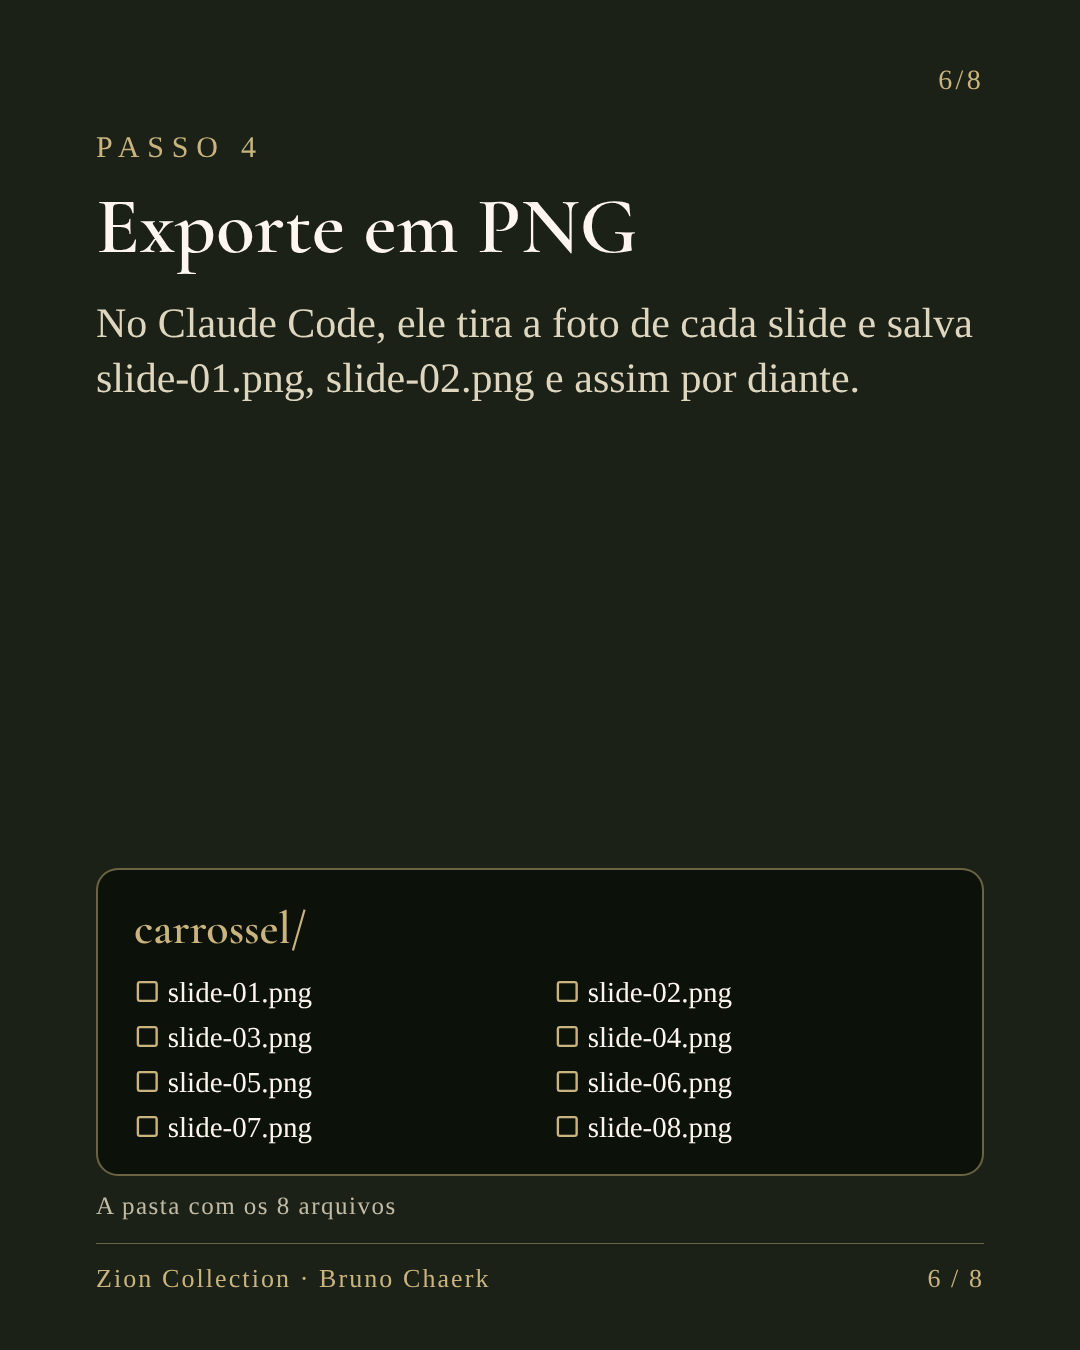
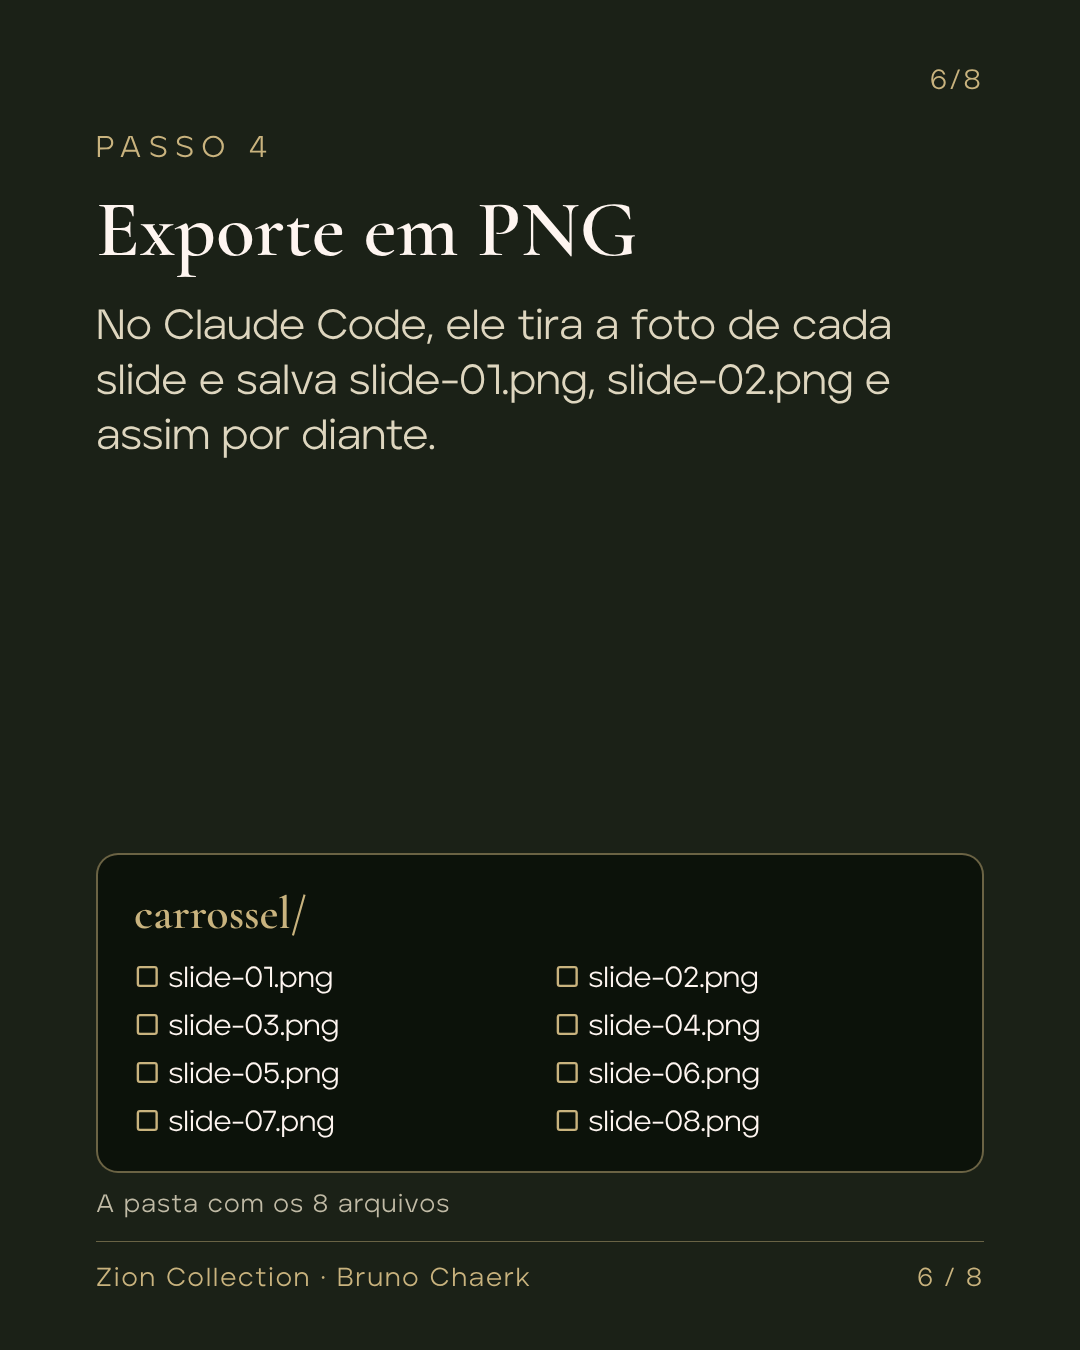
Carrossel 001: PNGs exportados em png/ e correção do carregamento da fonte Aventa
Claude-Session: https://claude.ai/code/session_01BzUk5cJiMhLKC6ATp7dYim

diff --git a/producao/instagram/carrosseis/001-passo-a-passo-carrossel-com-claude/carrossel.html b/producao/instagram/carrosseis/001-passo-a-passo-carrossel-com-claude/carrossel.html
@@ -1,7 +1,7 @@
 <!doctype html><html lang="pt-BR"><head><meta charset="utf-8"><title>Carrossel Zion</title>
 <style>
 @font-face{font-family:C;src:url(../../../../docs/assets/fonts/cormorant.woff2);font-weight:300 700}
-@font-face{font-family:A;src:url(__FONTS__/aventa.woff2);font-weight:300 700}
+@font-face{font-family:A;src:url(../../../../docs/assets/fonts/aventa.woff2);font-weight:300 700}
 :root{--bg:#040605;--musgo:#1B2117;--creme:#FEF5F0;--areia:#DED6BF;--dest:#C9B37E;--m:96px}
 *{margin:0;box-sizing:border-box}
 body{background:#222;display:flex;flex-direction:column;align-items:center;gap:24px;padding:24px}
@@ -66,6 +66,7 @@ td:first-child{font-weight:700;color:var(--dest);width:260px}
 .marca-ext{font-family:C;font-size:64px;letter-spacing:.14em;color:var(--creme);margin-bottom:28px}
 .rod{position:absolute;left:var(--m);right:var(--m);bottom:118px;font-size:24px;color:var(--areia);opacity:.85}
 .seta-l:before{content:"→  ";color:var(--dest)}
+.solo .visual{top:230px;bottom:auto}.com-rod .visual{bottom:190px}.com-rod.solo .visual{bottom:auto}.rod{bottom:112px}
 </style></head><body>
 <script id="dados" type="application/json">{"marca":"Zion Collection · Bruno Chaerk","tema":"passo a passo: carrossel pronto com o Claude","slides":[{"papel":"capa","kicker":"Passo a passo","titulo":"Carrossel pronto em 4 passos","texto":"Com o Claude, sem abrir editor de design."},{"papel":"texto","kicker":"O jeito antigo","titulo":"Uma tarde inteira ajustando fonte","texto":"Escrever num lugar, montar slide por slide em outro. No jeito novo, o Claude escreve e monta, e você só decide."},{"papel":"passo","kicker":"Passo 1","titulo":"Escolha o tipo pelo objetivo","texto":"Alcance pede opinião forte ou notícia, salvamento pede lista ou passo a passo, e venda pede estudo de caso.","visual":{"tipo":"tabela","colunas":["Objetivo","Tipos"],"linhas":[["Alcance","Opinião forte ou notícia"],["Salvamento","Lista ou passo a passo"],["Venda","Estudo de caso"]]}},{"papel":"passo","kicker":"Passo 2","titulo":"Peça o roteiro slide a slide","texto":"Diga o tipo, o público e quantos slides, com no máximo 30 palavras em cada um.","visual":{"tipo":"chat","texto":"Crie um carrossel passo a passo, com 8 slides, para donos de pousada e glamping. No máximo 30 palavras por slide.","legenda":"Exemplo de prompt no chat do Claude"}},{"papel":"passo","kicker":"Passo 3","titulo":"Peça a arte em HTML","texto":"Cada slide com 1080 por 1350 pixels, a sua fonte e uma cor de destaque só.","visual":{"tipo":"lado","esquerda":"Conversa","direita":"Carrossel","conversa":"Agora faça a arte em HTML. Cada slide com 1080 × 1350 px, minha fonte e uma cor de destaque.","minis":["01","02","03"],"legenda":"Ilustração: o carrossel aberto ao lado da conversa"}},{"papel":"passo","kicker":"Passo 4","titulo":"Exporte em PNG","texto":"No Claude Code, ele tira a foto de cada slide e salva slide-01.png, slide-02.png e assim por diante.","visual":{"tipo":"pasta","nome":"carrossel","arquivos":["slide-01.png","slide-02.png","slide-03.png","slide-04.png","slide-05.png","slide-06.png","slide-07.png","slide-08.png"],"legenda":"A pasta com os 8 arquivos"}},{"papel":"texto","kicker":"O resultado","titulo":"8 PNGs do tamanho do feed","texto":"A sua identidade em todos, e um HTML que vira o molde do próximo carrossel: você só troca o texto."},{"papel":"cta","kicker":"Salva e comenta","titulo":"Comenta PROMPT","texto":"Salva pra fazer o seu hoje e comenta PROMPT que eu te mando os 4 prompts no direct."}],"legenda":"Carrossel pronto em 4 passos com o Claude, sem abrir editor de design.\n\n1) Escolha o tipo pelo objetivo\n2) Peça o roteiro slide a slide\n3) Peça a arte em HTML\n4) Exporte em PNG\n\nSalva pra fazer o seu hoje e comenta PROMPT que eu te mando os 4 prompts no direct."}</script>
 <script>
@@ -98,7 +99,7 @@ function visual(v){
 }
 D.slides.forEach((s,i)=>{
  const el=document.createElement('section');
- el.className='slide '+s.papel+(!D.fundoUnico&&i%2?' alt':'')+(s.visual&&s.visual.tipo==='secao'?' sec':'');
+ el.className='slide '+s.papel+(!D.fundoUnico&&i%2?' alt':'')+(s.visual&&s.visual.tipo==='secao'?' sec':'')+(!s.titulo&&!s.texto?' solo':'')+(s.rodape?' com-rod':'');
  const seta=s.papel==='capa'?'<div class="seta">Arrasta pro lado →</div>':'';
  const img=s.imagem?'<div class="img" style="background-image:url('+e(s.imagem)+')"></div><div class="sh"></div>':'';
  const rod=s.rodape?'<div class="rod">'+e(s.rodape)+'</div>':'';

diff --git a/.claude/skills/carrossel-zion/scripts/build.js b/.claude/skills/carrossel-zion/scripts/build.js
@@ -7,7 +7,7 @@ const {chromium}=require('playwright');const fs=require('fs');const path=require
  const MAX=D.maxPalavras||30;D.slides.forEach((s,i)=>{const w=[s.titulo,s.texto].filter(Boolean).join(' ').split(/\s+/).length;if(w>MAX)console.warn(`AVISO slide ${i+1}: ${w} palavras (máx. ${MAX} fora do VISUAL)`)});
 const ph=JSON.stringify(D).match(/\[[^\]\"]{1,40}\]/g)||[];const ph2=ph.filter(x=>!/^\[(GRÁTIS|CONFERIR|cole|anexe|produto)\]$/.test(x));if(ph2.length){console.error('BLOQUEADO: placeholders sem preencher: '+[...new Set(ph2)].join(' ')+'. Troque pelos fatos reais de Bruno antes de exportar.');process.exit(2)}
  const fonts=path.relative(dir,path.join(root,'docs/assets/fonts'));
- const html=fs.readFileSync(path.join(__dirname,'template.html'),'utf8').replace('__FONTS__',fonts).replace('__DATA__',JSON.stringify(D).replace(/</g,'\\u003c'));
+ const html=fs.readFileSync(path.join(__dirname,'template.html'),'utf8').split('__FONTS__').join(fonts).replace('__DATA__',JSON.stringify(D).replace(/</g,'\\u003c'));
  fs.writeFileSync(path.join(dir,'carrossel.html'),html);
  if(D.legenda)fs.writeFileSync(path.join(dir,'legenda.md'),D.legenda+'\n');
  const b=await chromium.launch();const p=await b.newPage({viewport:{width:1200,height:1400},deviceScaleFactor:1});
